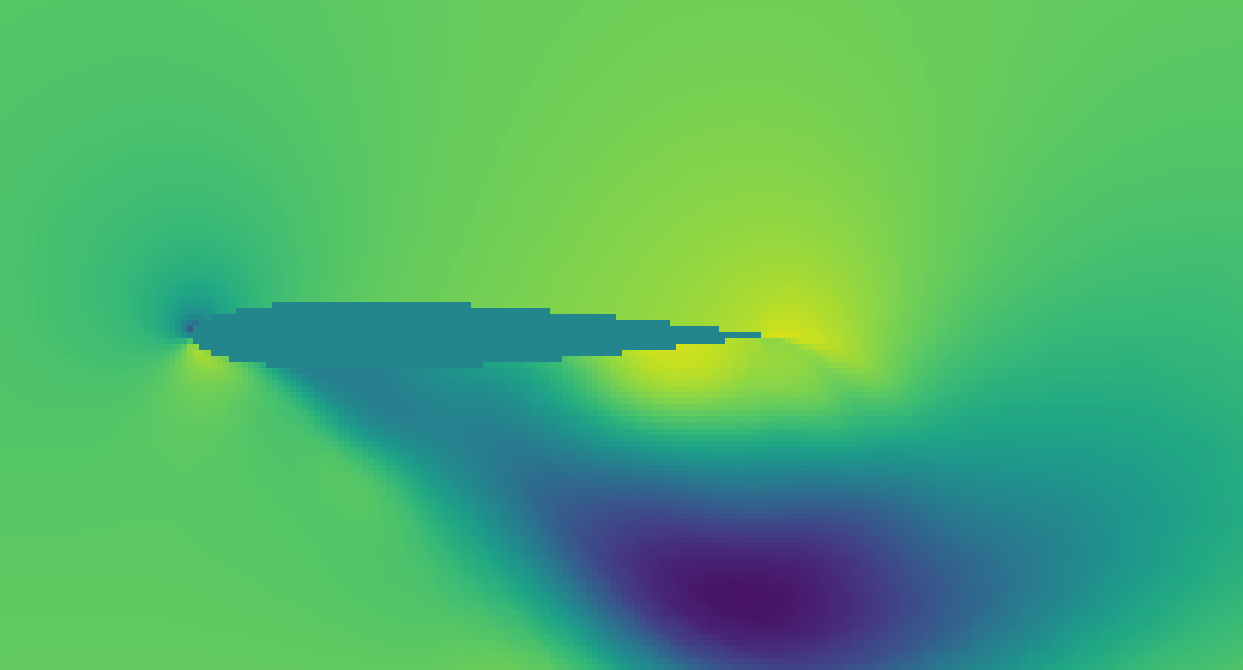
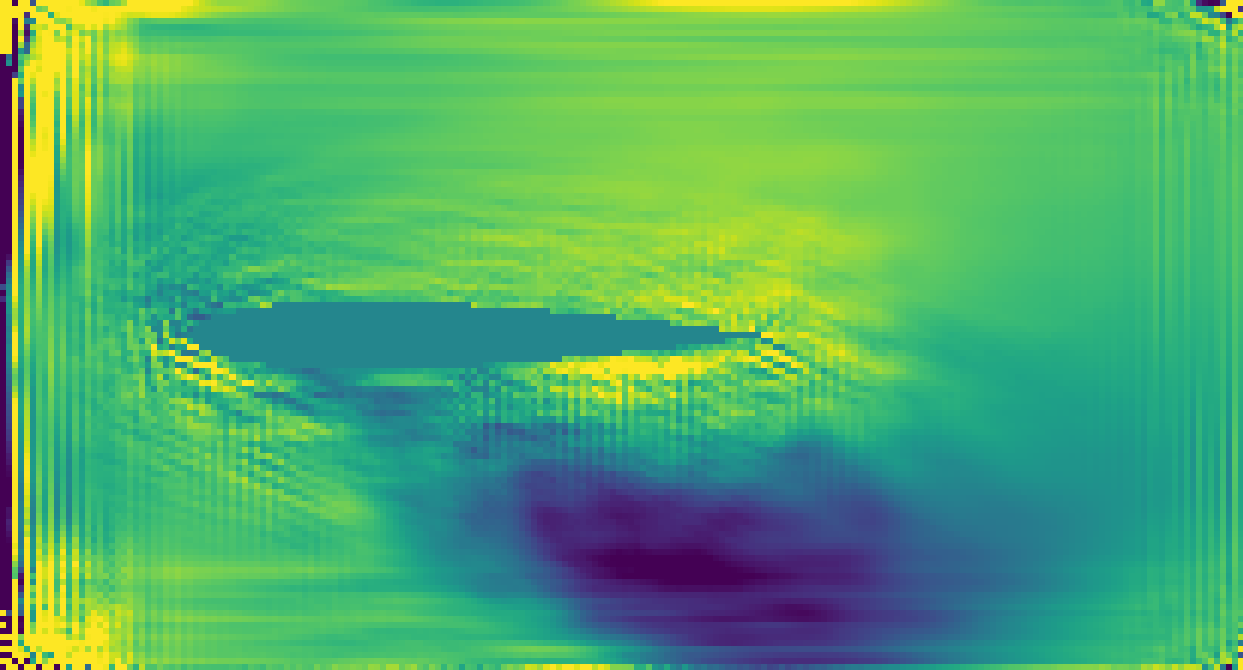
Update airfoil plots

diff --git a/max/test.py b/max/test.py
@@ -1,44 +1,20 @@
 import numpy as np
 
 x = \
- [0.0, 0.0032099313102662563, 0.0061384886503219604, 0.009067551232874393, 0.01181983482092619, 0.014886787161231041, 0.01785389333963394, 0.02052210085093975,
-  0.023002443835139275, 0.025514952838420868, 0.027850881218910217, 0.0300144050270319, 0.03202562406659126, 0.033788688480854034, 0.03519675135612488,
-  0.03659083694219589, 0.03789990395307541, 0.03892245143651962, 0.03969006612896919, 0.04034934192895889, 0.04101668670773506, 0.04157476872205734,
-  0.042353156954050064, 0.04317767173051834, 0.04412341117858887, 0.04510306194424629, 0.04613110050559044, 0.046904124319553375, 0.047954097390174866,
-  0.048898402601480484, 0.04983287304639816, 0.050723910331726074, 0.05165800079703331, 0.05270518735051155, 0.053813546895980835, 0.05485623702406883,
-  0.05588974803686142, 0.0568842738866806, 0.057840581983327866, 0.05886365473270416, 0.0599653534591198, 0.06105760112404823, 0.06216162070631981,
-  0.06332559883594513, 0.06454001367092133, 0.0658406913280487, 0.0672251358628273, 0.06850068271160126, 0.06950464099645615, 0.0704534724354744,
-  0.07127759605646133, 0.07200615108013153, 0.07264097034931183, 0.07332675158977509, 0.07402423769235611, 0.07495276629924774, 0.07599356770515442,
-  0.07711886614561081, 0.07821670174598694, 0.07929058372974396, 0.08037135004997253, 0.08114776760339737, 0.08185414224863052, 0.0824054405093193,
-  0.08308850973844528, 0.08399534225463867, 0.0850825309753418, 0.08630681037902832, 0.08762246370315552, 0.089044950902462, 0.09045188874006271,
-  0.09183460474014282, 0.093091681599617, 0.09420458972454071, 0.09520905464887619, 0.09619557112455368, 0.09704981744289398, 0.09799212217330933,
-  0.09859909117221832, 0.09934978187084198, 0.10004415363073349, 0.1008460596203804, 0.10189955681562424, 0.10249017924070358, 0.10302272439002991,
-  0.10358966886997223, 0.10429073125123978, 0.10507013648748398, 0.10604867339134216, 0.10713359713554382, 0.10823624581098557, 0.10930534452199936,
-  0.11021679639816284, 0.11096181720495224, 0.111571304500103, 0.11217489838600159, 0.11287548393011093, 0.11368850618600845, 0.11468417197465897,
-  0.11580470204353333, 0.11694969981908798, 0.1181085854768753, 0.11902052164077759, 0.11993043124675751, 0.12071748822927475, 0.12133403867483139,
-  0.12192351371049881, 0.12252018600702286, 0.12308492511510849, 0.12361842393875122, 0.12422510981559753, 0.12480057030916214, 0.1253407597541809,
-  0.12616762518882751, 0.12671606242656708, 0.12730205059051514, 0.1279444396495819, 0.12870807945728302, 0.12967939674854279, 0.13098320364952087,
-  0.13206705451011658, 0.1334710419178009, 0.13479503989219666, 0.13588549196720123, 0.13677479326725006, 0.1373997926712036, 0.137788325548172,
-  0.13814355432987213, 0.13848523795604706, 0.1389624923467636, 0.1397659182548523, 0.14086967706680298, 0.14207062125205994, 0.1433211863040924,
-  0.14465337991714478, 0.14596553146839142, 0.147126242518425, 0.14814460277557373, 0.14902259409427643, 0.1498536467552185, 0.15049013495445251,
-  0.1510297656059265, 0.15133313834667206, 0.15167155861854553, 0.15216736495494843, 0.15237244963645935, 0.15257492661476135, 0.15278714895248413,
-  0.15314199030399323, 0.15357905626296997, 0.15428796410560608, 0.15516600012779236, 0.1565292477607727, 0.1580401360988617, 0.15951785445213318,
-  0.16082492470741272, 0.16185732185840607, 0.1626432240009308, 0.16319219768047333, 0.16364090144634247, 0.16401338577270508, 0.16450972855091095,
-  0.16520392894744873, 0.16608178615570068, 0.16701433062553406, 0.16803407669067383, 0.16901059448719025, 0.1699523776769638, 0.17084436118602753,
-  0.17165720462799072, 0.1725035458803177, 0.17339685559272766, 0.17419323325157166, 0.17494674026966095, 0.17564649879932404, 0.176704540848732,
-  0.17748388648033142, 0.17815594375133514, 0.1787542849779129, 0.17925378680229187, 0.17963416874408722, 0.1799481213092804, 0.18034078180789948,
-  0.180854931473732, 0.18177667260169983, 0.18281255662441254, 0.18378883600234985, 0.18473674356937408, 0.1856246441602707, 0.1863793581724167,
-  0.18689849972724915, 0.1875072866678238, 0.18783003091812134, 0.18826836347579956, 0.18883882462978363, 0.18954193592071533, 0.19024458527565002,
-  0.19104652106761932, 0.19184164702892303, 0.19264554977416992, 0.19350571930408478, 0.19433073699474335, 0.19511857628822327, 0.19588349759578705,
-  0.1967262625694275, 0.19740863144397736, 0.1979314237833023, 0.19866180419921875, 0.19918790459632874, 0.19955435395240784, 0.19995683431625366,
-  0.20031647384166718, 0.20068909227848053, 0.20119018852710724, 0.20178453624248505, 0.202776238322258, 0.20399779081344604, 0.20526498556137085,
-  0.20643369853496552, 0.20736730098724365, 0.20818006992340088, 0.20876529812812805, 0.20908696949481964, 0.20934009552001953, 0.2096187174320221,
-  0.2100401669740677, 0.21048520505428314, 0.2112135887145996, 0.21184641122817993, 0.2123948037624359, 0.21293939650058746, 0.213408961892128,
-  0.2138180136680603, 0.21420085430145264, 0.21468889713287354, 0.21516552567481995, 0.21570532023906708, 0.2163490653038025, 0.21712124347686768,
-  0.21787120401859283, 0.2185368537902832, 0.2190440595149994, 0.219512939453125, 0.21986252069473267, 0.2201341837644577, 0.22033536434173584,
-  0.22080139815807343, 0.2214335799217224, 0.2222914844751358, 0.22315333783626556, 0.22399120032787323]
+ [0.0000, 0.0106, 0.0200, 0.0286, 0.0368, 0.0448, 0.0524, 0.0596, 0.0666,
+  0.0734, 0.0802, 0.0870, 0.0940, 0.1012, 0.1084, 0.1157, 0.1232, 0.1308,
+  0.1384, 0.1462, 0.1541, 0.1621, 0.1702, 0.1786, 0.1872, 0.1959, 0.2043,
+  0.2126, 0.2207, 0.2291, 0.2378, 0.2468, 0.2559, 0.2649, 0.2738, 0.2827,
+  0.2916, 0.3004, 0.3091, 0.3178, 0.3265, 0.3351, 0.3436, 0.3518, 0.3601,
+  0.3685, 0.3769, 0.3856, 0.3947, 0.4042, 0.4142, 0.4246, 0.4350, 0.4452,
+  0.4554, 0.4658, 0.4763, 0.4869, 0.4975, 0.5081, 0.5186, 0.5288, 0.5391,
+  0.5492, 0.5592, 0.5691, 0.5789, 0.5887, 0.5986, 0.6086, 0.6186, 0.6289,
+  0.6395, 0.6503, 0.6614, 0.6726, 0.6841, 0.6957, 0.7078, 0.7200, 0.7323,
+  0.7446, 0.7567, 0.7690, 0.7814, 0.7939, 0.8065, 0.8189, 0.8314, 0.8438,
+  0.8562, 0.8687, 0.8812, 0.8937, 0.9062, 0.9186, 0.9308, 0.9428, 0.9549,
+  0.9671, 0.9795]
 
 x = np.array(x)
 print(f'{len(x) = }')
-print(x[:251].mean())
+print(x[:51].mean())
 

diff --git a/src/inference.py b/src/inference.py
@@ -9,6 +9,7 @@ import matplotlib.pyplot as plt
 from cprint import c_print
 import numpy as np
 import torch.nn.functional as F
+import natsort
 
 from utils import set_seed, load_yaml_from_file, get_available_device, get_save_folder, get_accelerator
 from utils_model import calc_n_rmse, patch_to_img, get_data_loader
@@ -17,7 +18,7 @@ from models.model import MultivariateTimeLLM
 from dataloader.simple_dataloader import MGNDataset
 from dataloader.airfoil_ds import AirfoilDataset
 
-torch._dynamo.config.cache_size_limit = 4
+torch._dynamo.config.cache_size_limit = 1
 
 logging.basicConfig(level=logging.INFO,
                     format=f'[{__name__}:%(levelname)s] %(message)s')
@@ -43,7 +44,7 @@ def get_eval_dl(model, bs, seq_len):
                             mode='test',
                             normalize=model.config['normalize_ds'])
 
-    dl = DataLoader(ds, batch_size=bs, pin_memory=True)
+    dl = DataLoader(ds, batch_size=bs, pin_memory=True, num_workers=8)
     return dl
 
 
@@ -61,13 +62,29 @@ def plot_set(plot_step, true_states, pred_states, title):
     fig.show()
 
 
+def plot_final(state_hat, state_true):
+    vmin, vmax = state_true[:100, 0].min(), state_true[:100, 0].max()
+
+    for j in [0, 20, 40, 60, 80, 100]:
+        plot_state = state_hat[j, 0]
+        #fig = plt.figure(figsize=(15, 4))
+        fig = plt.figure(figsize=(13, 7), dpi=100)
+
+        plt.imshow(np.flipud(plot_state.T), vmin=vmin, vmax=vmax)
+        plt.axis('off')
+        plt.tight_layout()
+        plt.savefig(f'./plots/airfoil_125m_{j}.png', bbox_inches='tight', pad_inches=0)
+        plt.show()
+    exit(4)
+
+
 @torch.inference_mode()
 def test_generate(model: MultivariateTimeLLM, dl, batch_num=0):
     model.eval()
 
     start_step = 1
     ctx_states = 1
-    pred_steps = 251      # Number of diffs. States is -1.
+    pred_steps = 101  # Number of diffs. States is -1.
     start_cut = start_step - ctx_states
     end_state = pred_steps + ctx_states - 1
 
@@ -77,6 +94,9 @@ def test_generate(model: MultivariateTimeLLM, dl, batch_num=0):
     # Get batch and run through model
     for i, batch in enumerate(dl):
         print(f'{i = }')
+        if i != 15:
+            continue
+
         # Filter out start
         batch = [b[:, start_cut:] for b in batch]
         batch = [t.cuda() for t in batch]
@@ -85,7 +105,7 @@ def test_generate(model: MultivariateTimeLLM, dl, batch_num=0):
 
         # bs, seq_len, N_patch, channel, px, py = states.shape
         pred_states, pred_diffs = model.gen_seq(batch, pred_steps=pred_steps, start_state=ctx_states)
-        pred_states = pred_states[:, :-1]           # Since last state doesnt have diff.
+        pred_states = pred_states[:, :-1]  # Since last state doesnt have diff.
 
         true_states = patch_to_img(states, model.ds_props)
         true_diffs = patch_to_img(diffs, model.ds_props)
@@ -99,18 +119,22 @@ def test_generate(model: MultivariateTimeLLM, dl, batch_num=0):
         N_rmse = calc_n_rmse(pred_states, true_states, bc_mask)
         N_rmses.append(N_rmse)
 
+        print(f'{true_states.shape = }')
+        if i == 15:
+            plot_final(pred_states[0].cpu(), true_states[0].cpu())
+            exit(7)
         if first_batch is None:
             first_batch = (true_states, true_diffs, pred_states, pred_diffs)
 
-#         break
+        # break
 
     N_rmses = torch.cat(N_rmses, dim=0)
-    N_rmse = torch.mean(N_rmses, dim=0)[ctx_states-1:]
+    N_rmse = torch.mean(N_rmses, dim=0)[ctx_states - 1:]
     c_print(f'{ctx_states = }', color='cyan')
     c_print(f"Standard N_RMSE: {N_rmse}, Mean: {N_rmse.mean().item():.4g}", color='cyan')
 
     # Plotting
-    plot_nums = np.array([0, pred_steps-2]) + ctx_states
+    plot_nums = np.array([0, pred_steps - 2]) + ctx_states
     print(f'{plot_nums = }')
     for plot_step in plot_nums:
         true_states, true_diffs, pred_states, pred_diffs = first_batch
@@ -119,16 +143,16 @@ def test_generate(model: MultivariateTimeLLM, dl, batch_num=0):
         # plot_set(plot_step, true_diffs[batch_num], pred_diffs[batch_num], 'Differences')
 
         # Plot states
-        plot_set(plot_step, true_states[batch_num], pred_states[batch_num], f'States, step {plot_step-ctx_states}')
+        plot_set(plot_step, true_states[batch_num], pred_states[batch_num], f'States, step {plot_step - ctx_states}')
 
 
 def main():
-    load_no = -1
-    save_epoch = 500
-    seq_len = 255
-    bs = 4
+    load_no = -3
+    save_epoch = 180
+    seq_len = 151
+    bs = 1
 
-    plot_batch_num = 2
+    plot_batch_num = 0
 
     set_seed()
 

diff --git a/eagle/eval_DRN.py b/eagle/eval_DRN.py
@@ -27,7 +27,7 @@ def plot_final(state_hat, state_true):
     vmin, vmax = state_true[:100, 0].min(), state_true[:100, 0].max()
 
     for j in [0, 20, 40, 60, 80, 100]:
-        plot_state = state_true[j, 0]
+        plot_state = state_hat[j, 0]
         #fig = plt.figure(figsize=(15, 4))
         fig = plt.figure(figsize=(13, 7))
 
